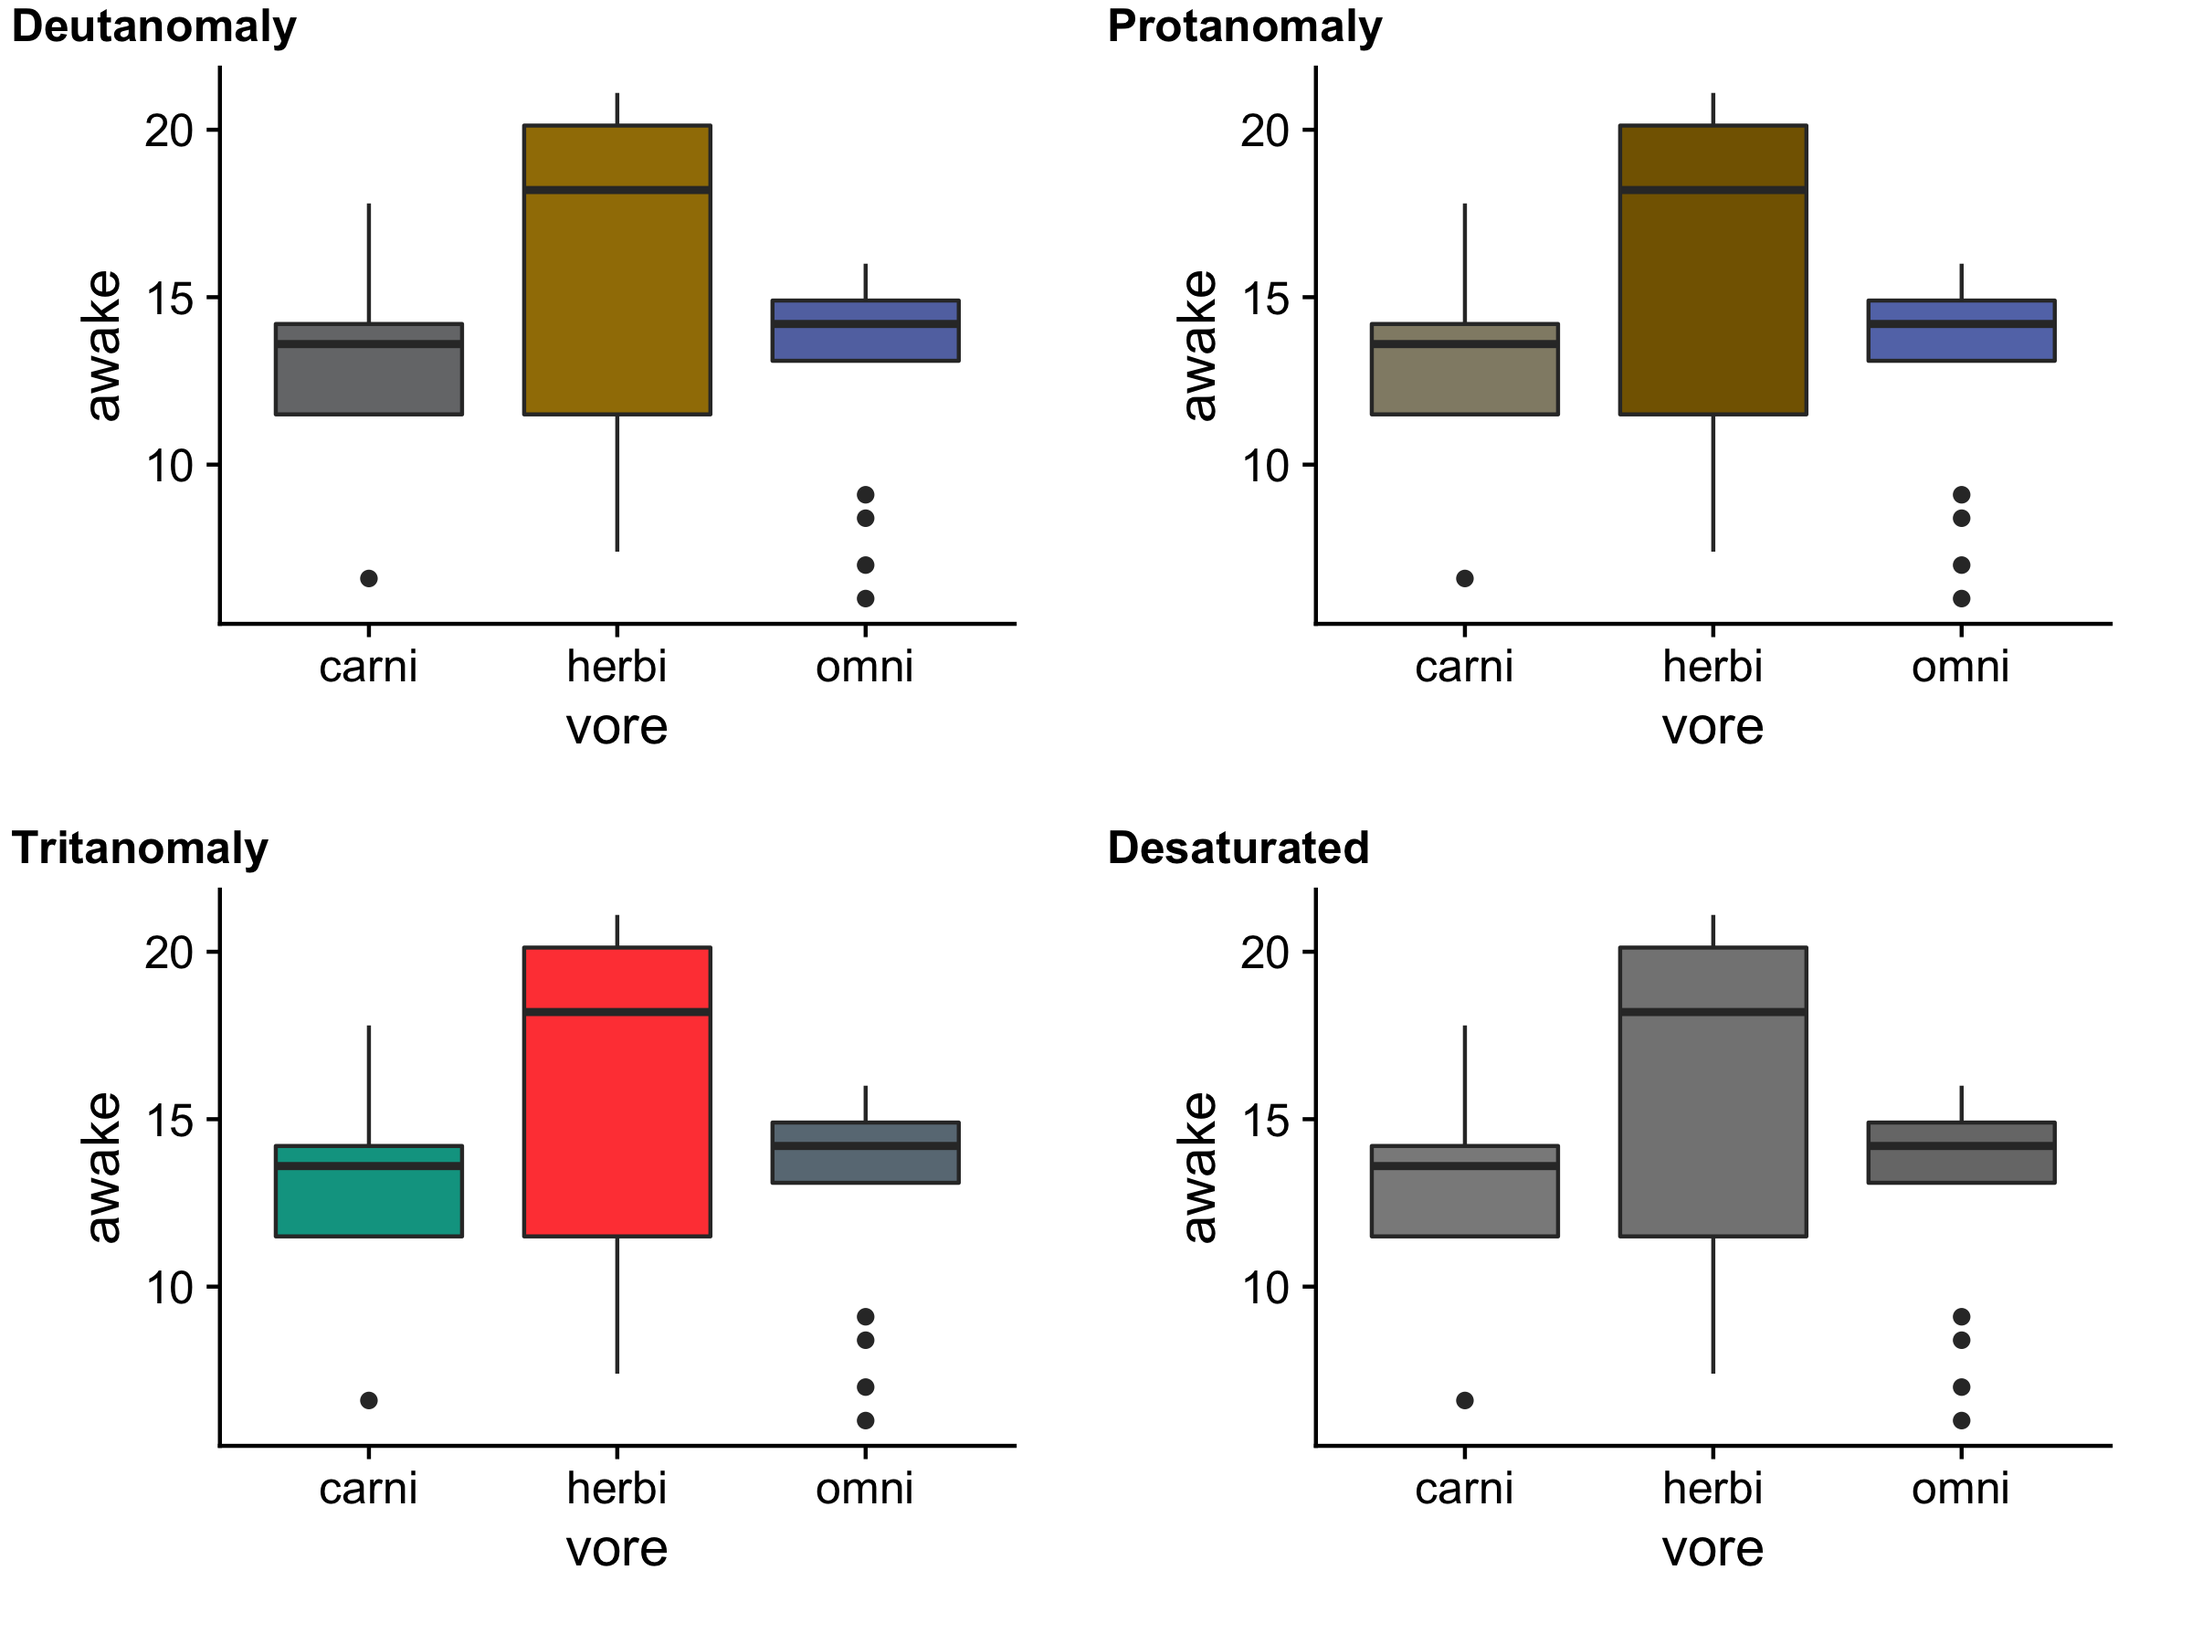
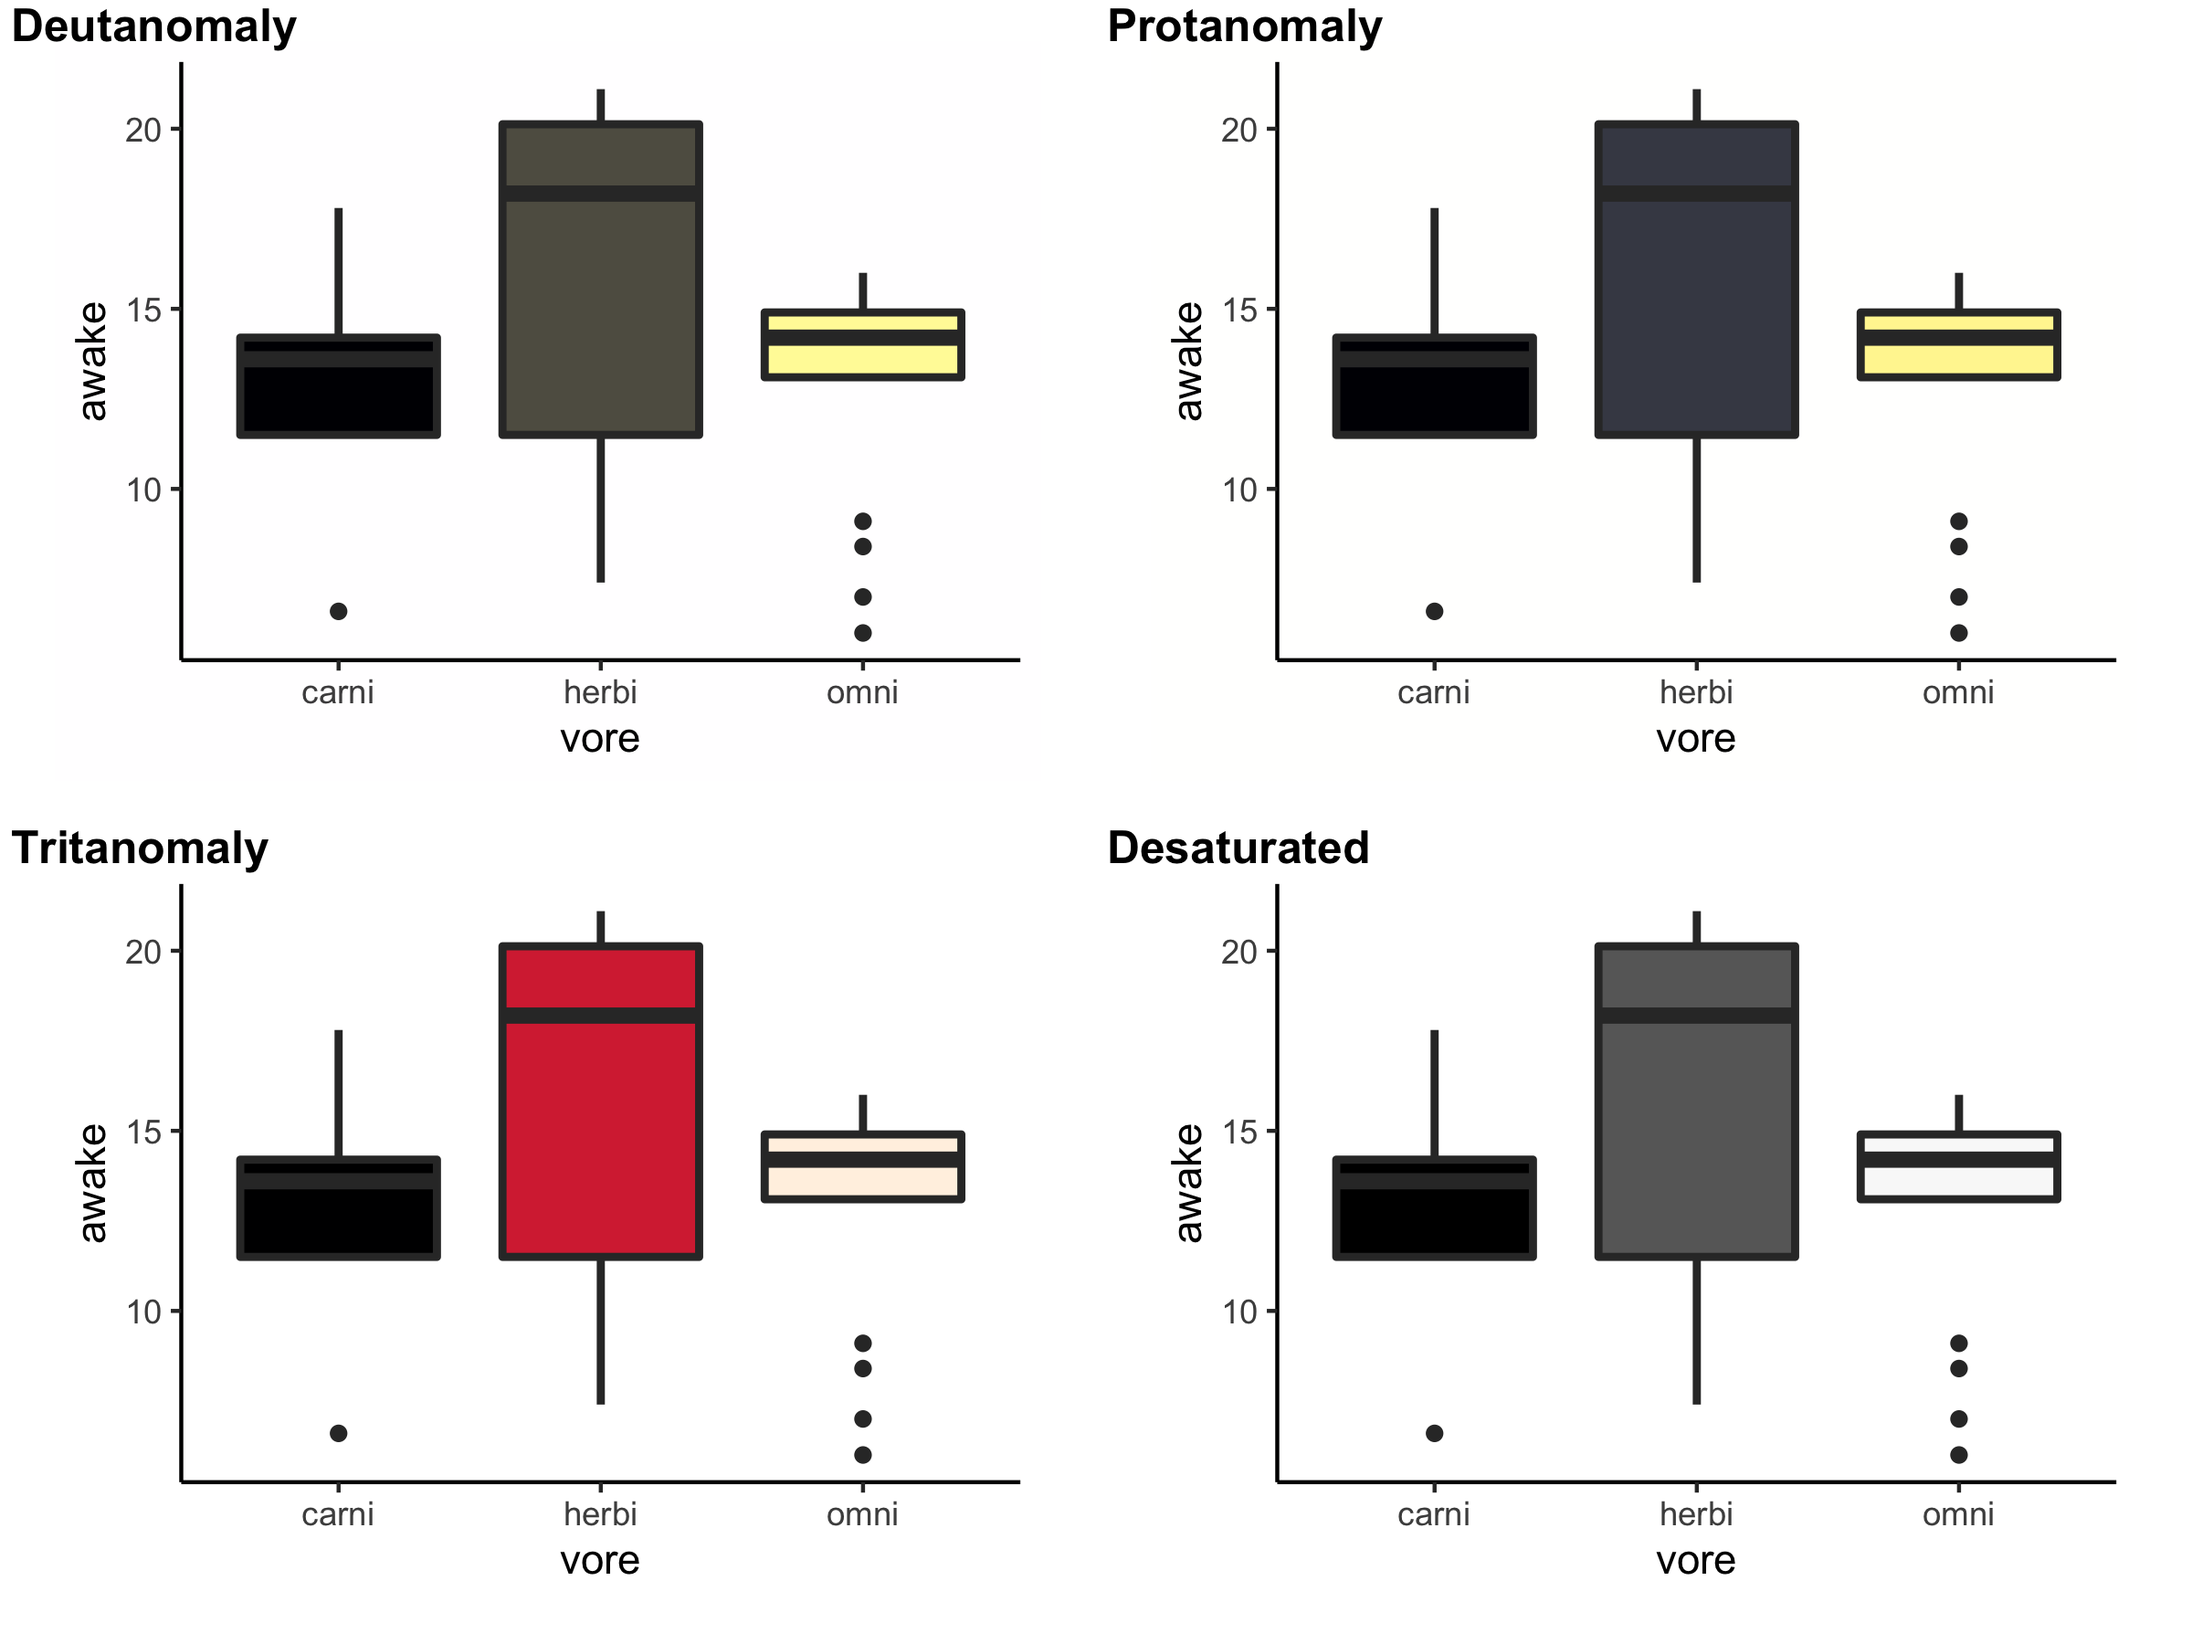
slides

diff --git a/docs/slides/dataviz_style_slides.html b/docs/slides/dataviz_style_slides.html
@@ -126,7 +126,7 @@ Percent body fat versus height in professional male Australian athletes. (Each p
  
 --
 
-&lt;img src="img/dataviz_best_practices/Aus-athletes-big-ugly-1.png" width="400px" /&gt;
+&lt;img src="img/dataviz_best_practices/Aus-athletes-big.png" width="400px" /&gt;
 
 ---
 
@@ -227,11 +227,44 @@ msleep_subvore
 
 &lt;img src="img/dataviz_best_practices/box_fill_cb_cvd_grid.png" width="800px" /&gt;
 
+---
+
+# Want manual fills (colors)?
+
+
+
+```r
+myplot &lt;- ggplot(msleep_subvore, 
+       aes(x = vore, y = awake, fill = vore)) + 
+  geom_violin() + 
+* scale_fill_manual(name = "Legend name",
+*                   values = c("cornflowerblue",
+*                              "coral3",
+*                              "blueviolet"))
+
+print(myplot)
+```
+
+![](dataviz_style_slides_files/figure-html/unnamed-chunk-26-1.png)&lt;!-- --&gt;
+
+---
+
+# How to check CVD friendliness
+
+
+```r
+library(colorblindr) # installed for you our RStudio Cloud
+cvd_grid(myplot)
+```
+
+![](dataviz_style_slides_files/figure-html/unnamed-chunk-27-1.png)&lt;!-- --&gt;
+
+---
     </textarea>
 <style data-target="print-only">@media screen {.remark-slide-container{display:block;}.remark-slide-scaler{box-shadow:none;}}</style>
 <script src="https://remarkjs.com/downloads/remark-latest.min.js"></script>
 <script>var slideshow = remark.create({
-"highlightStyle": "rainbow",
+"highlightStyle": "github",
 "highlightLines": true,
 "countIncrementalSlides": false
 });

diff --git a/docs/index.md b/docs/index.md
@@ -37,7 +37,7 @@ R 2/11  | The grammar of graphics, Part 2 | Finish slides from Wednesday | None
 T 2/16  | Visualizing data with `ggplot2`, Part 1 | [PDF Slides](./slides/ggplot2_slides.pdf) <br><br> [Slides in browser](./slides/ggplot2_slides.html) |  **Homework 3 due** on Canvas as a PDF file. [Link to instructions](./homeworks/hw3/hw3_instructions.html) <br> 
 W 2/17  | Visualizing data with `ggplot2`, Part 2 | Exercises: Begin with Introduction to `ggplot2` <br><br>[**Link if your last name is A-Mc**](https://rowanbiosci.shinyapps.io/intro_ggplot2_A-Mc/) <br><br>[**Link if your last name is Me-Z**](https://rowanbiosci.shinyapps.io/intro_ggplot2_Me-Z/) | None
 R 2/18  | Visualizing data with `ggplot2`, Part 3 | [In-class demonstration script by Dr. Spielman](./misc/class_demo_code-2-18-21.R) | None
-T 2/23  | Best practices in data visualization | Slides <br><br> [Customizing colors tutorial](./tutorials/color_fill_scales.html) <br> [Customizing axes tutorial](./tutorials/axes.html) <br> [Customizing themes tutorial](./tutorials/themes.html) | **Homework 4 due** on Canvas as an R script.  [Link to instructions](./homeworks/hw4/hw4_instructions.html)
+T 2/23  | Best practices in data visualization | [Slides](./slides/dataviz_style_slides.html) <br><br> [Customizing colors tutorial](./tutorials/color_fill_scales.html) <br> [Customizing axes tutorial](./tutorials/axes.html) <br> [Customizing themes tutorial](./tutorials/themes.html) | **Homework 4 due** on Canvas as an R script.  [Link to instructions](./homeworks/hw4/hw4_instructions.html)
 W 2/24  | File input/output | [Reference/Tutorial](./tutorials/readr_ggsave.html) <br> [In-class exercise instructions](.misc/path_lesson.html) | None
 R 2/25  | Concepts in exploratory data analysis | TBD | None
 T 3/2   | Data wrangling with `dplyr`, Part 1 <!-- pipe and filter --> | Slides TBD | **Homework 5 due** on Canvas as an R script.  [Link to instructions](./homeworks/hw5/hw5_instructions.html)
